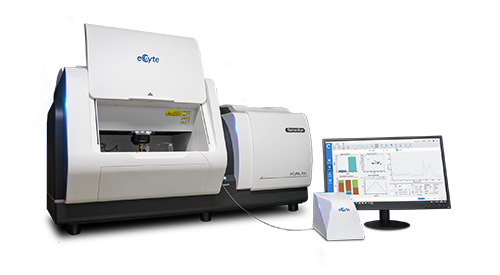
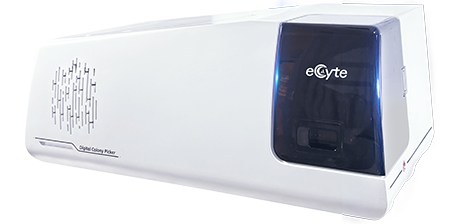
update: RACS-Seq to RAMS, fix DCP image

diff --git a/404.html b/404.html
@@ -4,7 +4,7 @@
     <meta charset="UTF-8" />
     <meta name="viewport" content="width=device-width, initial-scale=1.0" />
     <title>HuangShiLab</title>
-    <script type="module" crossorigin src="./assets/index-D4NH_GVc.js"></script>
+    <script type="module" crossorigin src="./assets/index-CYO8yT3u.js"></script>
     <link rel="stylesheet" crossorigin href="./assets/index-yU1eH2Tr.css">
   </head>
   <body>

diff --git a/index.html b/index.html
@@ -4,7 +4,7 @@
     <meta charset="UTF-8" />
     <meta name="viewport" content="width=device-width, initial-scale=1.0" />
     <title>HuangShiLab</title>
-    <script type="module" crossorigin src="./assets/index-D4NH_GVc.js"></script>
+    <script type="module" crossorigin src="./assets/index-CYO8yT3u.js"></script>
     <link rel="stylesheet" crossorigin href="./assets/index-yU1eH2Tr.css">
   </head>
   <body>